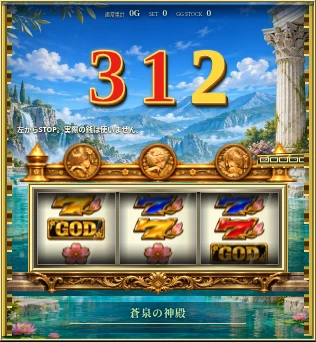
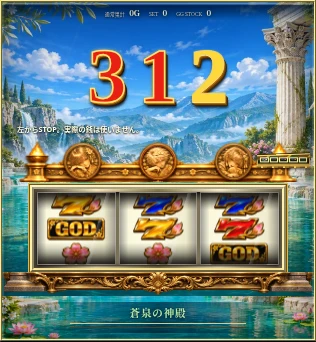
液晶左右のとげ状装飾を外して見本を更新する

diff --git a/src/changelog.ts b/src/changelog.ts
@@ -31,7 +31,7 @@ export type ChangelogEntry = {
 
 export const CHANGELOG: ChangelogEntry[] = [
   { id: '2026-11-07-kiseki-reference-layout', date: '2026-11-07', kind: 'improve', where: ['社務所Web'], title: '軌跡のリール位置を保ち、三神と小さい右側履歴を調整',
-    items: ['液晶内の赤・金の数字、神殿風の金装飾、明るい金属のリール枠を参考写真へ近づけました。', '大きい数字を上、三神と履歴を中段、リールを下寄りに配置しました。', '5マス履歴を三神の右横に小さくまとめ、リール下に細いステージ表示を置きました。', '押し順ナビ・3STOP・確定した履歴や当選結果を維持しています。'],
+    items: ['液晶内の赤・金の数字、明るい金属のリール枠を参考写真へ近づけました。', '大きい数字を上、三神と履歴を中段、リールを下寄りに配置しました。', '5マス履歴を三神の右横に小さくまとめ、リール下に細いステージ表示を置きました。', '押し順ナビ・3STOP・確定した履歴や当選結果を維持しています。'],
     announcement: { priority: 'none', audience: '運営の無料試遊担当', steps: ['軌跡版の「最新の状態を確認」を開く。', '下寄りの3リール、三神の右横の小さい履歴、最下部のステージ名を確認する。'], postText: '', imagePrompt: '', notes: '追加の全台写真に合わせた画面修正。抽選・払出・凱旋・一般公開・銭接続は変更しない。' } },
   { id: '2026-11-07-kiseki-trail-layout', date: '2026-11-07', kind: 'fix', where: ['社務所Web'], title: '軌跡の5マス履歴をリール上の金枠に沿う位置へ修正',
     items: ['数字直下に浮いていた履歴を小さくし、リール上部の装飾に沿う右側へ配置しました。', '数字と結果文の領域を分け、画面幅や告知の有無で履歴が移動しないようにしました。'],

diff --git a/src/web/public/kiseki-trial.css b/src/web/public/kiseki-trial.css
@@ -333,7 +333,6 @@
 
 /* 参考写真に合わせる対象は液晶内だけ。外装と操作部は維持。 */
 .kt-root.kt-reference-layout .gt-display{border:2px ridge #bfb16d;border-radius:1px;box-shadow:0 0 0 3px #02070d,inset 0 0 8px #02070d;isolation:isolate}
-.kt-root.kt-reference-layout .gt-display:before{content:'';position:absolute;inset:1% 0;z-index:4;pointer-events:none;border-left:5px ridge #d1ae3f;border-right:5px ridge #d1ae3f;background:repeating-linear-gradient(0deg,#fff1a6 0 2px,#9b711f 2px 5px,#443111 6px 10px,#d5af43 11px 13px,transparent 14px 28px) left/5px 100% no-repeat,repeating-linear-gradient(0deg,#fff1a6 0 2px,#9b711f 2px 5px,#443111 6px 10px,#d5af43 11px 13px,transparent 14px 28px) right/5px 100% no-repeat;clip-path:polygon(0 0,4% 0,2% 42%,7% 48%,7% 77%,3% 85%,6% 100%,0 100%,0 0,100% 0,96% 0,98% 42%,93% 48%,93% 77%,97% 85%,94% 100%,100% 100%,100% 0)}
 .kt-root.kt-reference-layout .gt-display .gt-lcd{padding-top:21px;background:linear-gradient(#03418422,transparent 65%)}
 .kt-root.kt-reference-layout .gt-display .gt-lcd-hud{font-size:5px;min-height:14px;padding:2px 8px;gap:9px;background:linear-gradient(#001b3fbb,transparent)}
 .kt-root.kt-reference-layout .gt-display .gt-lcd-hud b{font-size:8px}

diff --git a/docs/work-notes.md b/docs/work-notes.md
@@ -13,6 +13,8 @@
 - 採用版：差分を液晶内だけへ限定。外枠/銘板/操作部/腰ロゴはea0e5681と同一へ復元。最終CSSで通常10/当選80表示・42STOP・4予告・再読込を再検証し、JS例外0。液晶だけの見本docs/previews/kiseki-photo-lcd-{390,630}.webpへ差替え、外装込み見本は削除。
 - 全件はTSX固定後に開始、途中で外装CSSを撤回（ロジック/JS/試験/依存は同一）。最終の液晶CSSについて型/build/関連4ファイルとブラウザー確認を別に再実行する。最終CSSと全件の開始時点を混同しない。
 
+- 本人の追加指示「横のとげとげみたいのはいらないなあ」。液晶両端に追加した神殿風のとげ状装飾（gt-display:before）を削除し、リール枠と既存装飾だけ残す。外装には触れない。型/build/関連4ファイル28件は直前の液晶限定版で成功。装飾削除後は液晶見本と通常表示を更新する。
+
 ## 2026年11月7日：実機全体写真に合わせ三神・リール・ステージの上下構成を修正
 - 初期案（後に撤回）：本人の全体写真と「それなおして」。切抜き履歴画像を大きなパネルと解釈した前提を撤回。三神直下の大きな3リール、その下のステージ背景/名称、三神右横の小さい5マス履歴へ組み替える。
 - 開始：本番a6568a53からcodex/kiseki-reel-first。過去handoff保持、tree clean。本人の三神/独自図柄/履歴内容/押し順/確定結果/抽選/払出/凱旋を維持。一般公開/銭接続/今回の合流は保留。

diff --git a/docs/kiseki-trial.md b/docs/kiseki-trial.md
@@ -8,7 +8,7 @@
 
 押し順ナビ・目押し/補助・途中保存・履歴の更新・当選の権利は従来どおりです。背景6種類や実機の全抽選/BGMを追加したものではありません。以下の「初版」「一体化後」の画像は以前の構成の記録です。
 
-液晶内に限り、赤/金の数字、明るい金属のリール枠、両端の神殿風装飾、最下部の風景を追加調整しています。外枠・上部パネル・操作部・腰ロゴは維持。本人の三神も維持しています。液晶だけの架空台の見本は `docs/previews/kiseki-photo-lcd-{390,630}.webp`。数字312は色の比較用の固定表示であり、実際の抽選結果ではありません。写真1枚で確認できない動画・音の同一性は未検証です。
+液晶内に限り、赤/金の数字、明るい金属のリール枠、最下部の風景を追加調整しています。外枠・上部パネル・操作部・腰ロゴは維持。本人の三神も維持し、左右のとげ状装飾は置きません。液晶だけの架空台の見本は `docs/previews/kiseki-photo-lcd-{390,630}.webp`。数字312は色の比較用の固定表示であり、実際の抽選結果ではありません。写真1枚で確認できない動画・音の同一性は未検証です。
 
 ## 入口と保存
 

diff --git a/docs/admin.md b/docs/admin.md
@@ -2701,4 +2701,4 @@ JavaScriptの操作では、保存後の結果画面をPOSTの応答で直接受
 
 大きい数字を上、三神と小さい右側5マスを中段、リールを元の下寄り、その下に細いステージ表示という並びにしました。三神と金枠は既存の独自素材を使い、数字や結果文と履歴が重ならないようにしています。押し順ナビと3STOPは従来どおり使えます。履歴内容・抽選・払出・本人保存・凱旋版は変更しません。
 
-参考写真へ近づける対象は液晶内だけです。通常数字の色と縁を赤/金へ調整し、リール枠は明るい金属色、リール下のステージには区間に対応する独自の風景を表示します。液晶両端には神殿風の金装飾を追加。外枠・上部パネル・操作部・腰ロゴは変更しません。
+参考写真へ近づける対象は液晶内だけです。通常数字の色と縁を赤/金へ調整し、リール枠は明るい金属色、リール下のステージには区間に対応する独自の風景を表示します。液晶左右のとげ状装飾は置かず、リール周りの金枠を残します。外枠・上部パネル・操作部・腰ロゴは変更しません。

diff --git a/docs/user-decisions.md b/docs/user-decisions.md
@@ -1,3 +1,6 @@
+## 2026年11月7日：液晶左右のとげ状装飾は不要
+- 本人の指摘により、今回追加した左右のとげ状の金装飾は削除。リール周りの金枠は維持。
+
 ## 2026年11月7日：再現対象は液晶のみ
 - 本人の「変更してほしいのは液晶だよ」で対象を確定。筐体外枠/上部パネル/操作部/腰ロゴは今回変更しない。液晶内の背景/数字/三神/履歴/リール装飾/下部ステージを参考写真へ近づける。直下の全台外観案は撤回。
 
